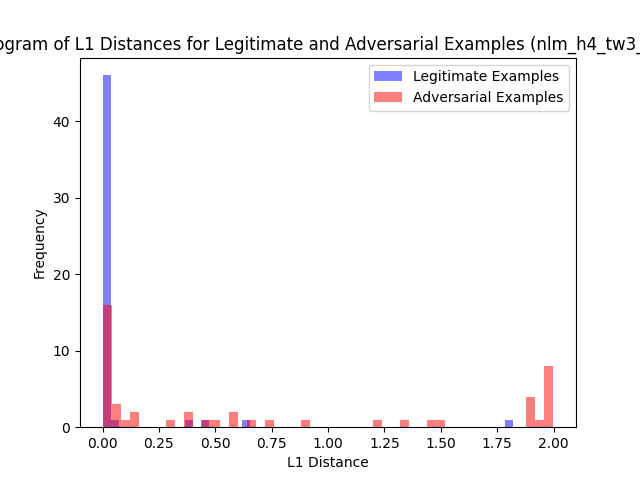
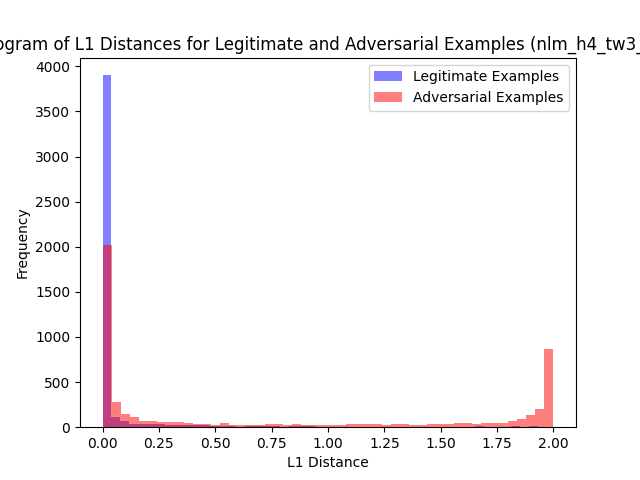
all hope is not yet lost

diff --git a/pytorch-cifar/feature_squeezing.py b/pytorch-cifar/feature_squeezing.py
@@ -3,6 +3,7 @@ from tqdm import tqdm
 import numpy as np
 import cv2
 from scipy.ndimage import median_filter
+import torch.nn as nn
 
 from advertorch.attacks import (
     DeepfoolLinfAttack,
@@ -86,11 +87,12 @@ def non_local_means_batch(batch, h=10, template_window_size=7, search_window_siz
 def feature_squeezing_pipeline(model, input_batch, squeezers, threshold):
     model.eval()
     distances = []
+    m = nn.Softmax()
     with torch.no_grad():
-        original_prediction = model(input_batch)
+        original_prediction = m(model(input_batch))
         for squeezer in squeezers:
             squeezed_batch = squeezer(input_batch)
-            squeezed_prediction = model(squeezed_batch)
+            squeezed_prediction = m(model(squeezed_batch))
             batch_distances = F.l1_loss(original_prediction, squeezed_prediction, reduction='none').view(input_batch.size(0), -1).sum(dim=1)
             distances.append(batch_distances)
     max_distances = torch.stack(distances, dim=1).max(dim=1).values
@@ -104,6 +106,7 @@ def evaluate_with_feature_squeezing_grouped(model, loader, squeezers, threshold,
         "correct_legitimate": 0,
         "adversarial_detected": 0,
     }
+
     
     for images, labels in tqdm(loader, desc="Evaluating batches"):
         images, labels = images.cuda(), labels.cuda()

diff --git a/pytorch-cifar/fs_find_thresh.py b/pytorch-cifar/fs_find_thresh.py
@@ -150,7 +150,7 @@ transform_test = torchvision.transforms.Compose([
 
 test_loader = DataLoader(
     torchvision.datasets.CIFAR10(root='./data', train=False, download=True, transform=transform_test),
-    batch_size=1, shuffle=False, num_workers=2
+    batch_size=100, shuffle=False, num_workers=2
 )
 
 # Define adversarial attack
